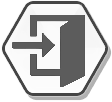
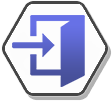
(fearure) new styles for navbar and footer

diff --git a/src/components/navbar/Navbar.jsx b/src/components/navbar/Navbar.jsx
@@ -95,7 +95,7 @@ const Navbar = () => {
     };
     return (
         <>
-            <AppBar className='navbar-layout' position="fixed" sx={{ zIndex: 9999 }}>
+            <AppBar className='navbar-layout' position="sticky" sx={{ zIndex: 9999 }}>
                 <Container maxWidth="xl">
                     <Toolbar disableGutters>
                         <Box component={NavLink}
@@ -229,12 +229,7 @@ const Navbar = () => {
                                 {location.pathname !== '/login' && location.pathname !== '/register' && (
                                     <Box>
                                         <Link to="/login" style={{ textDecoration: 'none', color: 'inherit' }}>
-                                            <Button variant="contained" size='small' sx={{ display: { xs: 'none', sm: 'block' } }}>
-                                                Ingresar
-                                            </Button>
-                                        </Link>
-                                        <Link to="/login" style={{ textDecoration: 'none', color: 'inherit' }}>
-                                            <IconButton sx={{ display: { xs: 'block', sm: 'none' }, mt: 1 }}>
+                                            <IconButton>
                                                 <img src={login} alt="" width={50} />
                                             </IconButton>
                                         </Link>
@@ -244,12 +239,7 @@ const Navbar = () => {
                                 {location.pathname == '/login' && (
                                     <Box>
                                         <Link to="/register" style={{ textDecoration: 'none', color: 'inherit' }}>
-                                            <Button variant="contained" size='small' sx={{ display: { xs: 'none', sm: 'block' } }}>
-                                                Registrarse
-                                            </Button>
-                                        </Link>
-                                        <Link to="/register" style={{ textDecoration: 'none', color: 'inherit' }}>
-                                            <IconButton sx={{ display: { xs: 'block', sm: 'none' }, mt: 1 }}>
+                                            <IconButton>
                                                 <img src={register} alt="" width={50} />
                                             </IconButton>
                                         </Link>
@@ -258,12 +248,7 @@ const Navbar = () => {
                                 {location.pathname == '/register' && (
                                     <Box>
                                         <Link to="/login" style={{ textDecoration: 'none', color: 'inherit' }}>
-                                            <Button variant="contained" size='small' sx={{ display: { xs: 'none', sm: 'block' } }}>
-                                                Ingresar
-                                            </Button>
-                                        </Link>
-                                        <Link to="/login" style={{ textDecoration: 'none', color: 'inherit' }}>
-                                            <IconButton sx={{ display: { xs: 'block', sm: 'none' }, mt: 1 }}>
+                                            <IconButton>
                                                 <img src={login} alt="" width={50} />
                                             </IconButton>
                                         </Link>
@@ -276,12 +261,12 @@ const Navbar = () => {
                     </Toolbar>
                 </Container>
             </AppBar>
-            <Box className='coins-background' sx={{ position: 'fixed', top: 91, right: '5%', zIndex: 999 }}>
+            {user && <Box className='coins-background' sx={{ position: 'fixed', top: 91, right: '5%', zIndex: 999 }}>
                 <Typography variant='h4' className='text'>
                 <CurrencyRubleOutlinedIcon sx={{color: 'black'}}/>
                     {user?.coins}
                 </Typography>
-            </Box>
+            </Box>}
 
         </>
     )

diff --git a/src/components/footer/Footer.jsx b/src/components/footer/Footer.jsx
@@ -1,12 +1,6 @@
 import './Footer.css';
 import Grid from '@mui/material/Unstable_Grid2';
 import { Box, Container, Divider, Link, Typography } from '@mui/material';
-import GitHubIcon from '@mui/icons-material/GitHub';
-import FacebookIcon from '@mui/icons-material/Facebook';
-import LinkedInIcon from '@mui/icons-material/LinkedIn';
-import BusinessCenterIcon from '@mui/icons-material/BusinessCenter';
-import { brown } from '@mui/material/colors';
-import logo from '../../assets/images/logo.png'
 import githubIcon from '../../assets/github.png';
 import facebookIcon from '../../assets/facebook.png';
 import linkedinIcon from '../../assets/linkedin.png';
@@ -15,15 +9,14 @@ import portfolioIcon from '../../assets/portfolio.png';
 const Footer = () => {
 
     return (
-        <Container className='footer-background' maxWidth={false}>
-            <Grid container spacing={2}>
-                <Grid xs={12} sm={6}>
-                    <Box sx={{ display: 'flex', justifyContent: { xs: 'center' } }}>
-                        <img src={logo} alt="" width={150} />
-                    </Box>
+        <Container className='footer-background' maxWidth={false} sx={{ pt: 1 }}>
+            <Grid container sx={{ display: 'flex', justifyContent: 'center', alignItems: 'center' }}>
+                <Grid xs={12} sm={6} textAlign='center' >
+                    <Typography className='footer-text'>Creado por Franco Guevara© - 2024</Typography>
+                <Divider orientation='horizontal' flexItem sx={{display: {xs: 'block', sm: 'none'}}}/>
                 </Grid>
-                <Grid xs={12} sm={6} p={0}>
-                    <Box sx={{ display: 'flex', justifyContent: 'center', mt: {xs: 2, sm: 5} }}>
+                <Grid xs={12} sm={6} sx={{mt:1}}>
+                    <Box sx={{ display: 'flex', justifyContent: 'center' }}>
                         <Link href="https://github.com/FrancoLadronDeGuevara" underline="none" target="_blank" rel="noreferrer">
                             <img src={githubIcon} className='footer-icon' />
                         </Link>
@@ -38,10 +31,7 @@ const Footer = () => {
                         </Link>
                     </Box>
                 </Grid>
-                <Grid xs={12} sm={12} textAlign='center' >
-                    <Divider orientation="horizontal" flexItem sx={{ mb: 1 }} />
-                    <Typography variant='h7' sx={{ color: 'darkslategrey', fontWeight: 'bolder' }}>Creado por Franco Guevara - 2023</Typography>
-                </Grid>
+
             </Grid>
         </Container>
     )

diff --git a/src/components/footer/Footer.css b/src/components/footer/Footer.css
@@ -1,16 +1,32 @@
-.footer-background{
+.footer-background {
     background-color: transparent !important;
-    background-image: url('../../assets/dropdown.png');
+    background-image: url('../../assets/footer.png');
     background-size: 100% 100%;
     background-repeat: no-repeat;
+    background-position: center center;
 }
 
-.footer-icon{
+.footer-icon {
     width: 40px;
     margin-right: 10px;
     transition: all ease-in-out .2s;
 }
 
-.footer-icon:hover{
+.footer-icon:hover {
     transform: scale(1.2);
+}
+
+.footer-text{
+    font-weight: bolder !important;
+    color: white;
+}
+
+@media screen and (max-width: 600px) {
+    .footer-icon {
+        width: 25px
+    }
+
+    .footer-text{
+        font-size: 14px !important;
+    }
 }
